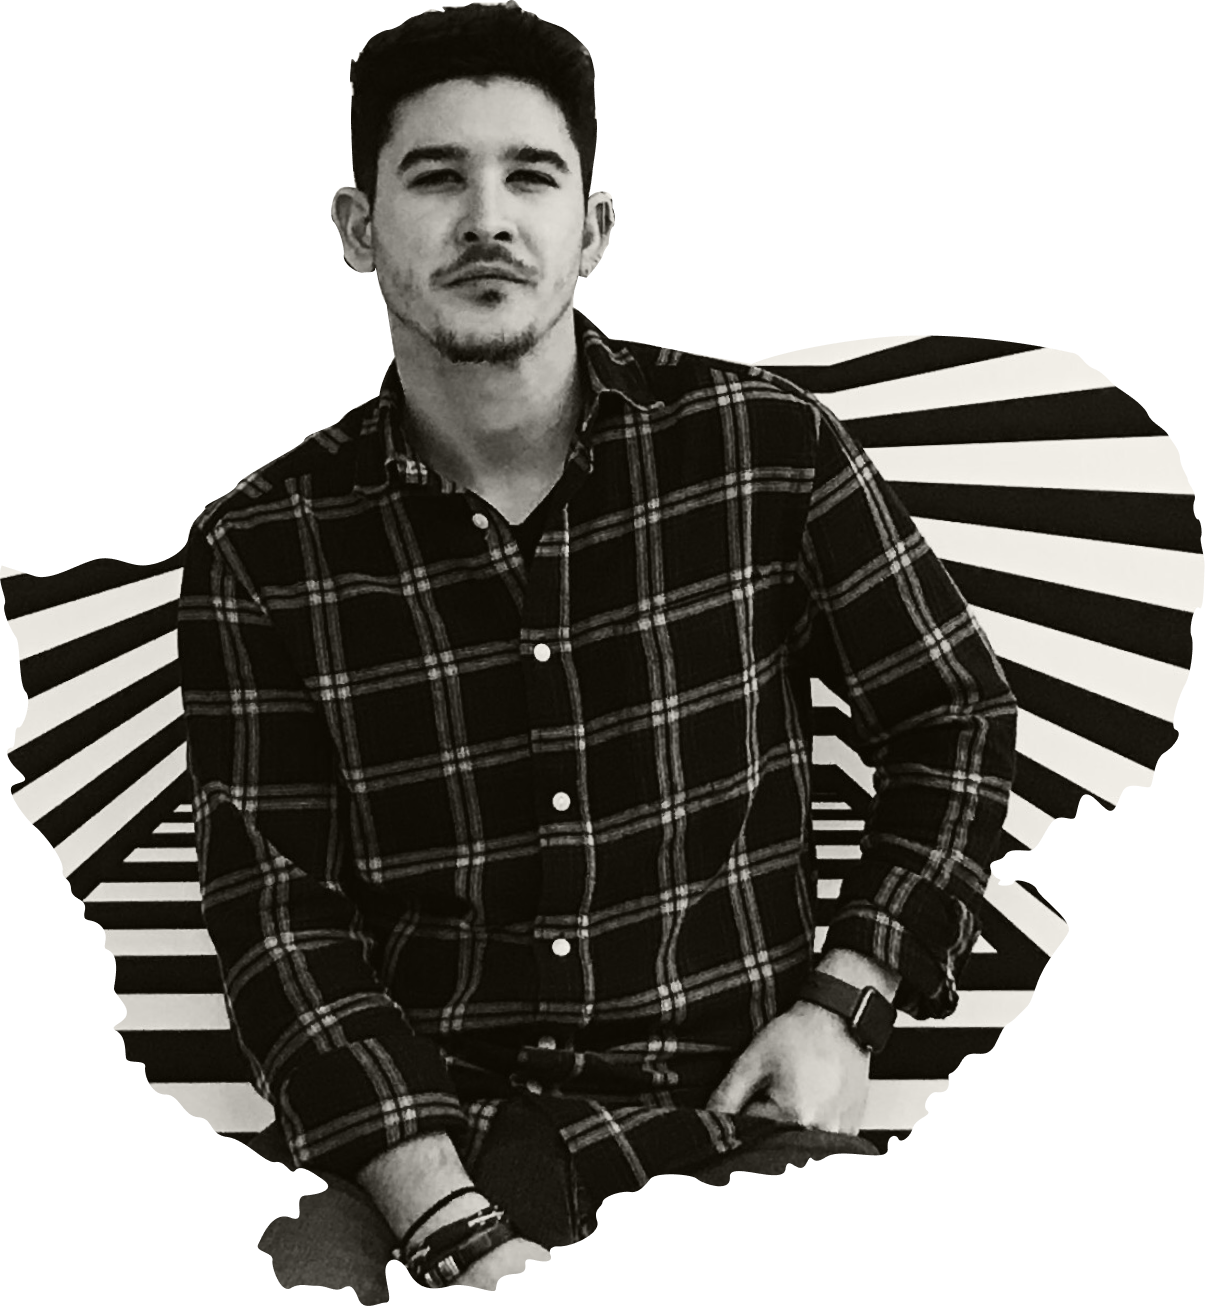
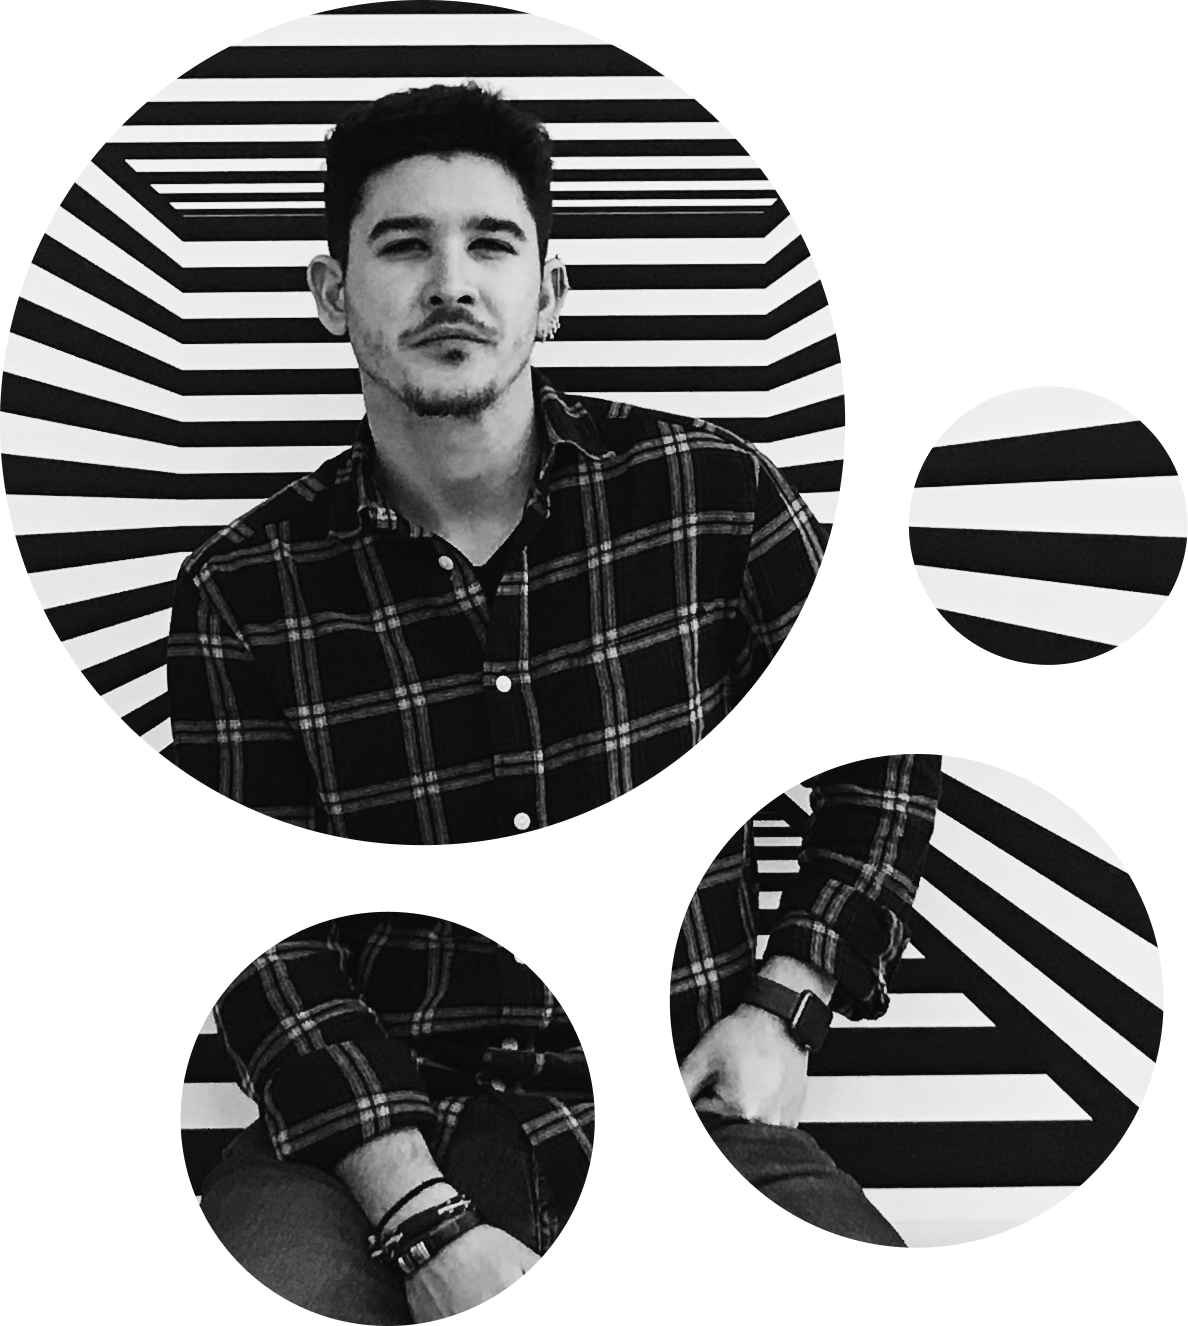
Updated mainHeader

diff --git a/src/assets/scss/base/_core.scss b/src/assets/scss/base/_core.scss
@@ -103,40 +103,62 @@ body {
   margin: 0 auto;
 
   &__profile {
-    height: 90vh;
-    width: auto;
+    position: relative;
+
+    img {
+      height: 90vh;
+    }
+
+    &::before,
+    &::after {
+      content: "";
+      position: absolute;
+      height: 100%;
+      background-size: 100%;
+      background-repeat: no-repeat;
+    }
+
+    &::before {
+      background-image: url(/assets/img/profile-circles.svg);
+      top: 9rem;
+      left: 0;
+      width: 100%;
+    }
+
+    &::after {
+      background-image: url(/assets/img/profile-circles-alt.svg);
+      top: -4rem;
+      right: -5rem;
+      width: 80%;
+    }
   }
 
   &__heading {
     position: absolute;
-    top: 2rem;
-    color: map-get($color, secondary);
+    top: 50%;
+    left: 0;
+    transform: translateY(-50%);
+
+    h1 {
+      letter-spacing: -5px;
+    }
 
     &--info {
       position: absolute;
+      top: 2rem;
+      right: 10vw;
+      z-index: 2;
 
-      &:nth-of-type(2) {
-        bottom: 9rem;
-        right: 0;
-
-        &::before {
-          content: "";
-          position: absolute;
-          background: url(/assets/img/star.svg) no-repeat;
-          background-size: cover;
-          width: 50px;
-          height: 50px;
-          left: -1rem;
-          top: -1rem;
-          z-index: -1;
-        }
-      }
-
-      &:nth-of-type(3) {
-        bottom: 0;
-        left: 0;
-        width: 25%;
-        text-align: right;
+      &::before {
+        content: "";
+        position: absolute;
+        background: url(/assets/img/star.svg) no-repeat;
+        background-size: cover;
+        width: 50px;
+        height: 50px;
+        left: -1rem;
+        top: -1rem;
+        z-index: -1;
       }
     }
   }

diff --git a/src/assets/scss/components/_typography.scss b/src/assets/scss/components/_typography.scss
@@ -4,18 +4,17 @@ Typography
 
 @import url('https://fonts.googleapis.com/css?family=Work+Sans:400,700&display=swap');
 
-.h0,
-h1, .h1 {
-  letter-spacing: .4rem;
-  line-height: 1;
+.h0 {
+  letter-spacing: -5px;
+  line-height: .9;
 }
 
 .h0 {
-  font-size: 9rem;
+  font-size: 5.5rem;
 }
 
 h1, .h1 {
-  font-size: 5.5rem
+  font-size: 4rem
 }
 
 h2, .h2 {
